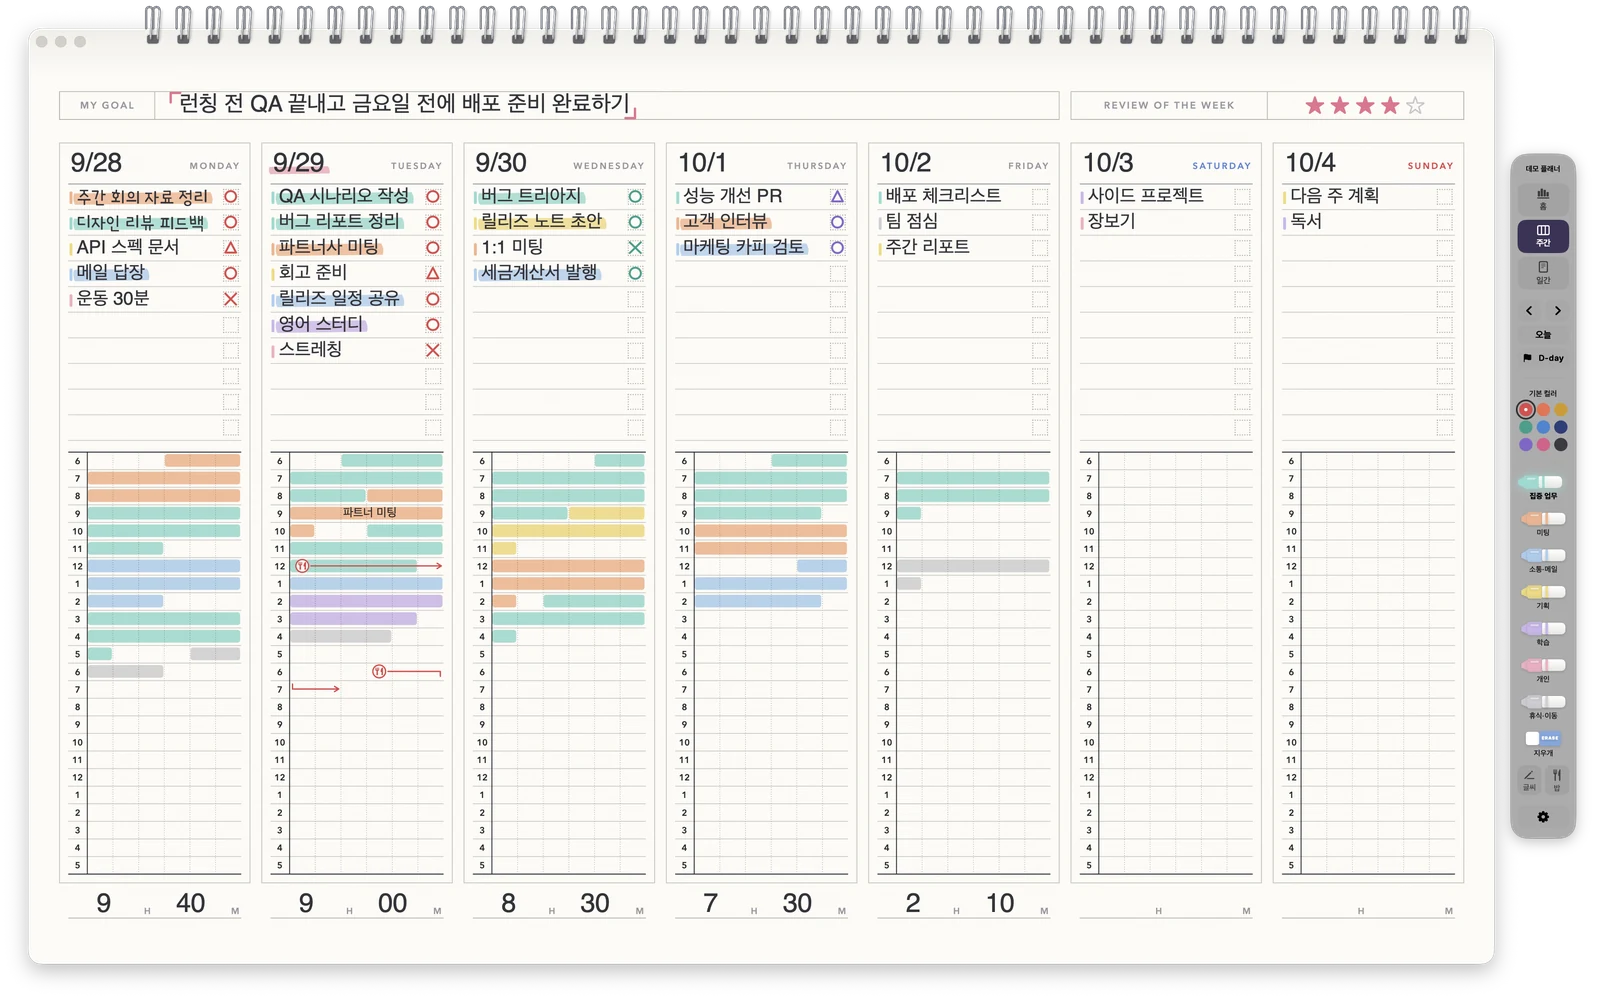
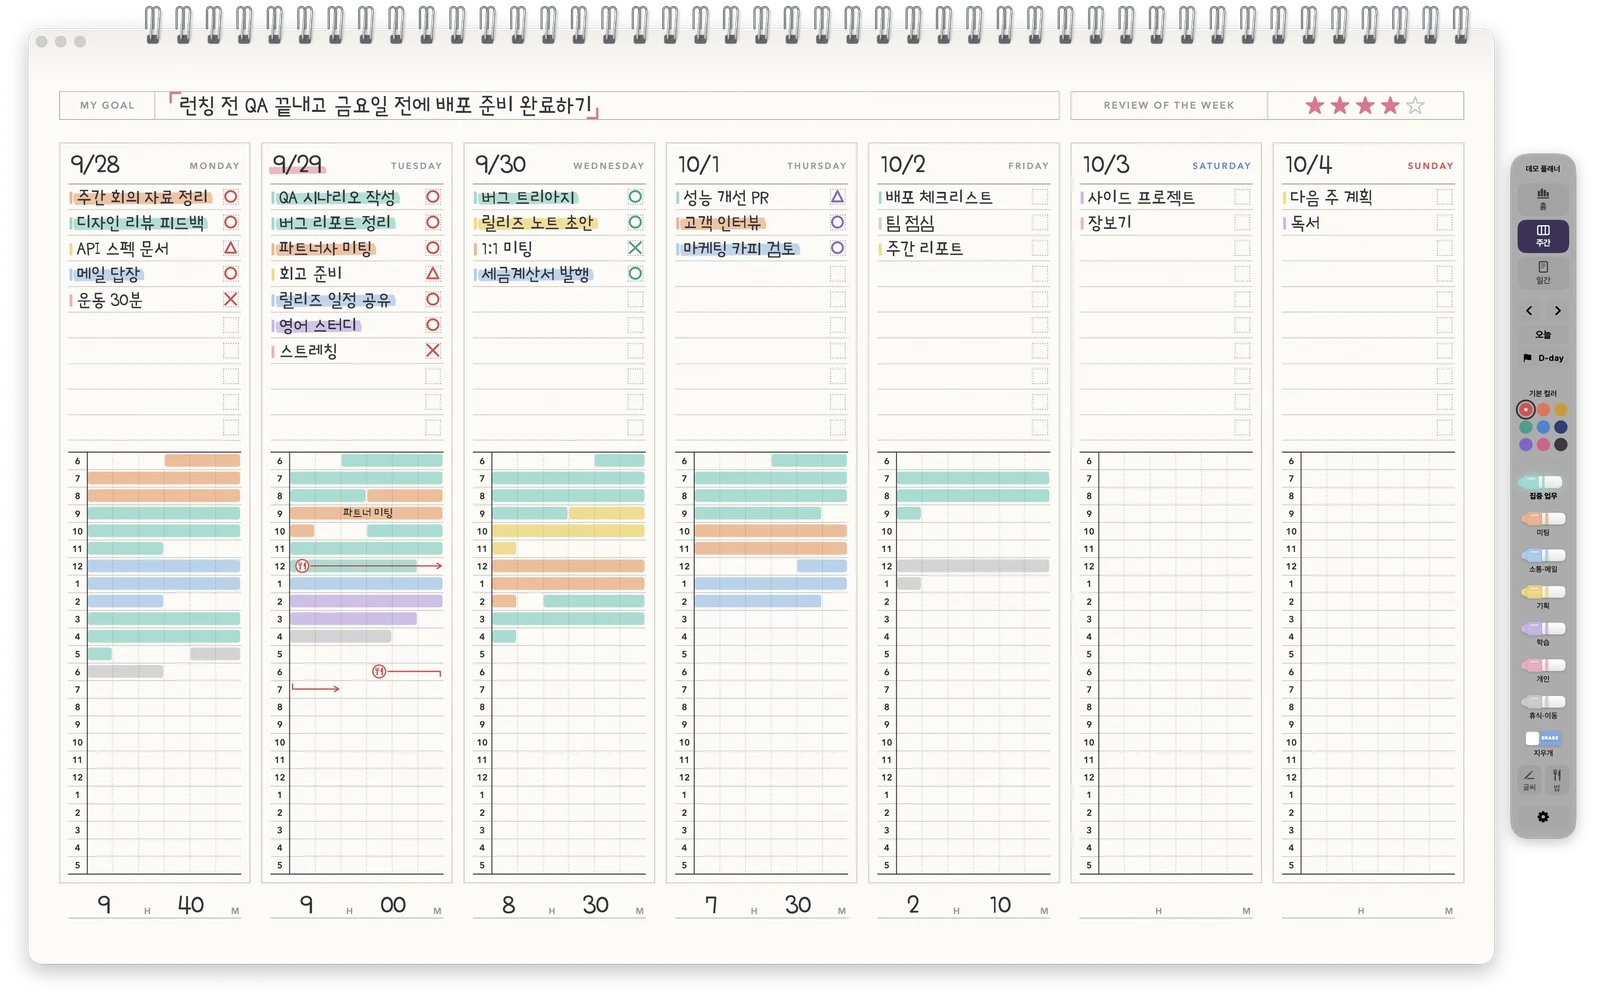
Site: handwriting font throughout, fresh hero captures, LeanAgileHungry company footer; app Help menu links, company copyright; Korean issue forms; fonts registered before first window

diff --git a/site/index.html b/site/index.html
@@ -17,7 +17,6 @@
 <link rel="preconnect" href="https://fonts.googleapis.com">
 <link rel="preconnect" href="https://fonts.gstatic.com" crossorigin>
 <link href="https://fonts.googleapis.com/css2?family=Poor+Story&display=swap" rel="stylesheet">
-<link rel="stylesheet" href="https://cdn.jsdelivr.net/gh/orioncactus/pretendard@v1.3.9/dist/web/variable/pretendardvariable-dynamic-subset.min.css">
 <style>
   :root {
     color-scheme: light;
@@ -36,9 +35,9 @@
     --sky: #A9CFF3;
     --lemon: #F3DB78;
     --lav: #CDB6EF;
-    --hand: "Poor Story", "Pretendard Variable", sans-serif;
-    --print: "Avenir Next", "Pretendard Variable", -apple-system, sans-serif;
-    --body: "Pretendard Variable", -apple-system, BlinkMacSystemFont, "Apple SD Gothic Neo", sans-serif;
+    --hand: "Poor Story", "Apple SD Gothic Neo", sans-serif;
+    --print: var(--hand);
+    --body: var(--hand);
   }
   * { box-sizing: border-box; }
   html { scroll-behavior: smooth; }
@@ -47,8 +46,8 @@
     background: var(--paper);
     color: var(--text);
     font-family: var(--body);
-    font-size: 17px;
-    line-height: 1.65;
+    font-size: 20px;
+    line-height: 1.6;
     -webkit-font-smoothing: antialiased;
     word-break: keep-all;
     overflow-x: hidden;
@@ -80,8 +79,8 @@
   /* 인쇄된 라벨: LABEL ──── */
   .label {
     display: flex; align-items: center; gap: 14px;
-    font-family: var(--print); font-weight: 600;
-    font-size: 13px; letter-spacing: .14em; text-transform: uppercase;
+    font-family: var(--print); font-weight: 400;
+    font-size: 17px; letter-spacing: .12em; text-transform: uppercase;
     color: var(--ink);
     margin: 0 0 18px;
   }
@@ -92,27 +91,27 @@
 
   /* 머리 */
   header.top { display: flex; align-items: center; justify-content: space-between; padding: 22px 0 8px; }
-  .brand { display: flex; align-items: center; gap: 10px; text-decoration: none; font-weight: 800; font-size: 20px; color: var(--ink); letter-spacing: -.01em; }
+  .brand { display: flex; align-items: center; gap: 10px; text-decoration: none; font-size: 26px; color: var(--ink); }
   .brand img { width: 36px; height: 36px; }
-  nav a { text-decoration: none; color: var(--soft); font-weight: 600; font-size: 15px; margin-left: 22px; }
+  nav a { text-decoration: none; color: var(--soft); font-size: 19px; margin-left: 22px; }
   nav a:hover { color: var(--ink); }
 
   /* 대문 */
   .hero { display: grid; grid-template-columns: 1.1fr .9fr; gap: 40px; align-items: center; padding: 28px 0 64px; }
-  .hero h1 { font-size: clamp(40px, 6vw, 68px); line-height: 1.12; letter-spacing: -.035em; color: var(--ink); margin: 6px 0 22px; font-weight: 800; }
-  .hero .lead { font-size: 19px; color: var(--text); max-width: 520px; margin: 0 0 30px; }
+  .hero h1 { font-size: clamp(48px, 7vw, 84px); line-height: 1.08; letter-spacing: -.01em; color: var(--ink); margin: 6px 0 22px; font-weight: 400; }
+  .hero .lead { font-size: 22px; color: var(--text); max-width: 520px; margin: 0 0 30px; }
   .hero .note { font-family: var(--hand); font-size: 26px; color: var(--pink); margin: 0; transform: rotate(-2deg); display: inline-block; }
   .cta { display: flex; gap: 12px; flex-wrap: wrap; align-items: center; }
   .btn {
     display: inline-flex; align-items: center; gap: 10px;
     padding: 15px 26px; border-radius: 14px; text-decoration: none;
-    font-weight: 700; font-size: 17px; transition: transform .15s ease, box-shadow .15s ease;
+    font-size: 20px; transition: transform .15s ease, box-shadow .15s ease;
   }
   .btn.primary { background: var(--plum); color: #fff; box-shadow: 0 10px 24px -8px rgba(60,51,87,.55); }
   .btn.primary:hover { transform: translateY(-2px); box-shadow: 0 14px 28px -8px rgba(60,51,87,.6); }
   .btn.ghost { color: var(--ink); background: rgba(0,0,0,.05); }
   .btn.ghost:hover { background: rgba(0,0,0,.08); }
-  .meta { margin-top: 16px; font-size: 14px; color: var(--soft); }
+  .meta { margin-top: 16px; font-size: 17px; color: var(--soft); }
   .hero-shot { position: relative; }
   .hero-shot img { width: auto; max-width: 100%; max-height: min(640px, 74vh); margin: 0 auto; filter: drop-shadow(0 30px 40px rgba(40,30,20,.18)); transform: rotate(1.2deg); }
   .hero-shot .tag {
@@ -124,8 +123,8 @@
 
   /* 섹션 */
   section { padding: 64px 0; }
-  section h2 { font-size: clamp(30px, 4vw, 44px); letter-spacing: -.03em; line-height: 1.2; color: var(--ink); margin: 0 0 16px; font-weight: 800; }
-  section p.desc { font-size: 18px; max-width: 640px; margin: 0 0 30px; }
+  section h2 { font-size: clamp(36px, 4.6vw, 54px); line-height: 1.15; color: var(--ink); margin: 0 0 16px; font-weight: 400; }
+  section p.desc { font-size: 21px; max-width: 640px; margin: 0 0 30px; }
   .split { display: grid; grid-template-columns: 1fr 1fr; gap: 56px; align-items: center; }
   .split.rev > :first-child { order: 2; }
   .shot { border-radius: 18px; overflow: hidden; box-shadow: 0 22px 50px -24px rgba(40,30,20,.35), 0 0 0 1px rgba(0,0,0,.05); background: #fff; }
@@ -134,15 +133,16 @@
 
   /* 체크 목록 (펜 표시) */
   ul.marks { list-style: none; padding: 0; margin: 0; }
-  ul.marks li { display: flex; gap: 14px; align-items: baseline; padding: 11px 0; border-bottom: 1px solid var(--rule); font-size: 17px; }
+  ul.marks li { display: flex; gap: 14px; align-items: baseline; padding: 11px 0; border-bottom: 1px solid var(--rule); font-size: 20px; }
   ul.marks li:last-child { border-bottom: 0; }
-  ul.marks .m { flex: 0 0 26px; font-family: var(--print); font-weight: 700; font-size: 20px; color: var(--pen); text-align: center; }
+  ul.marks .m { flex: 0 0 26px; font-size: 24px; color: var(--pen); text-align: center; }
+  ul.marks b { background: linear-gradient(transparent 55%, #F7C3CD 55% 92%, transparent 92%); }
 
   /* 기능 격자 */
   .grid { display: grid; grid-template-columns: repeat(3, 1fr); gap: 18px; }
   .card { background: #fff; border: 1px solid rgba(0,0,0,.06); border-radius: 18px; padding: 24px 22px 22px; box-shadow: 0 10px 30px -22px rgba(0,0,0,.4); }
-  .card h3 { margin: 10px 0 6px; font-size: 19px; color: var(--ink); letter-spacing: -.02em; }
-  .card p { margin: 0; font-size: 15.5px; color: var(--text); }
+  .card h3 { margin: 10px 0 6px; font-size: 24px; font-weight: 400; color: var(--ink); }
+  .card p { margin: 0; font-size: 18px; color: var(--text); }
   .chip { display: inline-block; width: 38px; height: 12px; border-radius: 3px; background: var(--c); transform: rotate(-3deg); }
 
   /* 형광펜 색 줄 */
@@ -156,8 +156,8 @@
   .steps { counter-reset: s; display: grid; grid-template-columns: repeat(3, 1fr); gap: 18px; }
   .step { position: relative; background: #fff; border-radius: 18px; padding: 26px 22px; border: 1px solid rgba(0,0,0,.06); }
   .step::before { counter-increment: s; content: counter(s); font-family: var(--hand); font-size: 40px; color: var(--pink); line-height: 1; display: block; margin-bottom: 8px; }
-  .step h3 { margin: 0 0 6px; font-size: 18px; color: var(--ink); }
-  .step p { margin: 0; font-size: 15.5px; }
+  .step h3 { margin: 0 0 6px; font-size: 23px; font-weight: 400; color: var(--ink); }
+  .step p { margin: 0; font-size: 18px; }
   code { font-family: ui-monospace, "SF Mono", Menlo, monospace; font-size: 13.5px; background: var(--paper-2); padding: 2px 6px; border-radius: 6px; }
   pre { background: #2B2B2F; color: #F4F2EC; padding: 14px 16px; border-radius: 12px; overflow-x: auto; font-size: 13.5px; margin: 12px 0 0; }
   pre code { background: none; padding: 0; color: inherit; }
@@ -166,7 +166,8 @@
   .privacy { background: var(--plum); color: #EDEAF5; border-radius: 28px; padding: 54px 48px; display: grid; grid-template-columns: 1.1fr .9fr; gap: 40px; align-items: center; }
   .privacy h2 { color: #fff; }
   .privacy ul { margin: 0; padding: 0; list-style: none; }
-  .privacy li { padding: 9px 0; border-bottom: 1px solid rgba(255,255,255,.14); font-size: 16.5px; }
+  .privacy li { padding: 9px 0; border-bottom: 1px solid rgba(255,255,255,.14); font-size: 19px; }
+  .privacy li b, b, strong { font-weight: 400; }
   .privacy li:last-child { border: 0; }
   .privacy li b { color: #fff; }
 
@@ -176,9 +177,18 @@
   .final h2 { margin-bottom: 10px; }
   .final .cta { justify-content: center; margin-top: 26px; }
 
-  footer { border-top: 1px solid var(--rule); padding: 28px 0 44px; font-size: 14px; color: var(--soft); }
-  footer .row { display: flex; justify-content: space-between; gap: 16px; flex-wrap: wrap; }
-  footer a { color: var(--soft); }
+  footer { position: relative; z-index: 1; border-top: 1px solid var(--rule); background: var(--paper-2); padding: 44px 0 36px; font-size: 17px; color: var(--soft); }
+  footer a { color: var(--soft); text-decoration: none; }
+  footer a:hover { color: var(--ink); }
+  .foot { display: grid; grid-template-columns: 2fr 1fr; gap: 32px; }
+  .lah { display: inline-flex; align-items: center; gap: 10px; font-size: 24px; color: var(--ink) !important; }
+  .lah img { width: 30px; height: 30px; }
+  .made { margin: 10px 0 12px; color: var(--text); }
+  .biz { list-style: none; padding: 0; margin: 0; font-size: 16px; line-height: 1.75; }
+  .links { display: flex; flex-direction: column; gap: 8px; }
+  .links h4 { margin: 0 0 4px; font-weight: 400; font-size: 20px; color: var(--ink); }
+  .legal { margin: 30px 0 0; padding-top: 18px; border-top: 1px dashed var(--dot); font-size: 15px; }
+  @media (max-width: 900px) { .foot { grid-template-columns: 1fr; } }
 
   @media (max-width: 900px) {
     .hero, .split, .privacy { grid-template-columns: 1fr; }
@@ -378,9 +388,30 @@
 </div>
 
 <footer>
-  <div class="wrap row">
-    <span>© 2026 Spiralday · <a href="https://github.com/Grwaywee/spiralday/blob/main/LICENSE">MIT License</a></span>
-    <span>손글씨 폰트 Poor Story © YoonDesign Inc. (SIL OFL 1.1) · <a href="https://github.com/Grwaywee/spiralday">GitHub</a></span>
+  <div class="wrap">
+    <div class="foot">
+      <div class="company">
+        <a class="lah" href="https://leanagilehungry.com" target="_blank" rel="noopener">
+          <img src="assets/lah-logo.svg" alt="" width="30" height="30">LeanAgileHungry.Inc
+        </a>
+        <p class="made">Spiralday 는 린에자일헝그리가 만들고 운영해요.</p>
+        <ul class="biz">
+          <li>상호 주식회사 린에자일헝그리 (LeanAgileHungry.Inc)</li>
+          <li>대표자 위관우</li>
+          <li>사업자등록번호 791-88-03659</li>
+          <li>주소 전남광주통합특별시 동구 동계천로 150, 205-2호 (동명동, I-Plex 광주)</li>
+          <li>이메일 <a href="mailto:contact@leanagilehungry.com">contact@leanagilehungry.com</a></li>
+        </ul>
+      </div>
+      <div class="links">
+        <h4>Spiralday</h4>
+        <a href="https://github.com/Grwaywee/spiralday/releases">다운로드</a>
+        <a href="mailto:contact@leanagilehungry.com?subject=%5BSpiralday%5D%20%EB%B2%84%EA%B7%B8%20%EC%8B%A0%EA%B3%A0%20%C2%B7%20%EA%B8%B0%EB%8A%A5%20%EC%A0%9C%EC%95%88">버그 신고 · 기능 제안</a>
+        <a href="https://github.com/Grwaywee/spiralday">GitHub (오픈소스)</a>
+        <a href="https://leanagilehungry.com" target="_blank" rel="noopener">회사 소개</a>
+      </div>
+    </div>
+    <p class="legal">© 2026 LeanAgileHungry.Inc · Spiralday 는 <a href="https://github.com/Grwaywee/spiralday/blob/main/LICENSE">MIT 라이선스</a> 오픈소스예요 · 손글씨 폰트 Poor Story © YoonDesign Inc. (SIL OFL 1.1)</p>
   </div>
 </footer>
 </body>

diff --git a/Sources/Spiralday/App.swift b/Sources/Spiralday/App.swift
@@ -14,6 +14,13 @@ struct SpiraldayApp: App {
                         .keyboardShortcut(",", modifiers: .command)
                 }
                 CommandGroup(replacing: .newItem) {}
+                CommandGroup(replacing: .help) {
+                    Button("Spiralday 웹사이트") { Links.open(Links.website) }
+                    Button("버그 신고 · 기능 제안…") { Links.open(Links.feedback) }
+                    Divider()
+                    Button("GitHub (오픈소스)") { Links.open(Links.github) }
+                    Button("린에자일헝그리") { Links.open(Links.company) }
+                }
                 CommandMenu("플래너") {
                     Button("주간 보기") { delegate.state.switchKind(.weekly) }.keyboardShortcut("1", modifiers: .command)
                     Button("일간 보기") { delegate.state.switchKind(.daily) }.keyboardShortcut("2", modifiers: .command)
@@ -29,6 +36,17 @@ struct SpiraldayApp: App {
                 }
             }
     }
+}
+
+/// 밖으로 나가는 링크 (사이트 푸터와 같은 곳)
+enum Links {
+    static let website = URL(string: "https://spiralday.com")!
+    static let github = URL(string: "https://github.com/Grwaywee/spiralday")!
+    static let company = URL(string: "https://leanagilehungry.com")!
+    /// 버그 신고·기능 제안 (구글 설문지가 생기면 그 주소로 바꾼다)
+    static let feedback = URL(string: "mailto:contact@leanagilehungry.com?subject=%5BSpiralday%5D%20%EB%B2%84%EA%B7%B8%20%EC%8B%A0%EA%B3%A0%20%C2%B7%20%EA%B8%B0%EB%8A%A5%20%EC%A0%9C%EC%95%88")!
+
+    static func open(_ url: URL) { NSWorkspace.shared.open(url) }
 }
 
 @MainActor
@@ -67,6 +85,8 @@ final class AppDelegate: NSObject, NSApplicationDelegate {
     }
 
     func applicationDidFinishLaunching(_ notification: Notification) {
+        // 손글씨 폰트는 어떤 창보다 먼저 등록한다
+        Fonts.register()
         if let i = Self.args.firstIndex(of: "--icon"), i + 1 < Self.args.count {
             let out = URL(fileURLWithPath: Self.args[i + 1])
             let variant = i + 2 < Self.args.count ? Int(Self.args[i + 2]) ?? 0 : 0

diff --git a/Sources/Spiralday/Theme.swift b/Sources/Spiralday/Theme.swift
@@ -78,6 +78,16 @@ enum Fonts {
     /// 앱에 들어 있는 폰트(Resources/Fonts)를 이 프로세스에 등록한다.
     /// .app 에서는 Contents/Resources/Fonts, 개발 빌드에서는 저장소의 Resources/Fonts 를 쓴다.
     static func activate(_ done: @escaping @Sendable () -> Void) {
+        register()
+        DispatchQueue.main.async { done() }
+    }
+
+    private static var registered = false
+
+    /// 창을 그리기 전에 반드시 먼저 불러야 한다 (늦게 등록하면 첫 화면이 기본 글꼴로 그려진다)
+    static func register() {
+        guard !registered else { return }
+        registered = true
         let repoFonts = URL(fileURLWithPath: #filePath)
             .deletingLastPathComponent().deletingLastPathComponent().deletingLastPathComponent()
             .appendingPathComponent("Resources/Fonts")
@@ -90,7 +100,6 @@ enum Fonts {
             }
             break
         }
-        DispatchQueue.main.async { done() }
     }
 }
 
